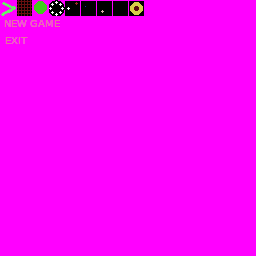
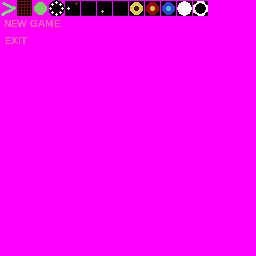
Add more artefacts

Changed region(s): [[0.5625, 0.0, 0.8125, 0.0625], [0.125, 0.0, 0.1875, 0.0625]]

diff --git a/src/Snake/Snake.java b/src/Snake/Snake.java
@@ -10,6 +10,10 @@ import Graphics.Screen;
 import Input.Keyboard;
 import Main.Game;
 import World.Artefakt1;
+import World.Artefakt2;
+import World.Artefakt3;
+import World.Artefakt4;
+import World.Artefakt5;
 import World.Map;
 import World.Tile;
 
@@ -117,6 +121,10 @@ public class Snake {
 			// Go ahead
 			boolean Head = false;
 			boolean addlength = false;
+			boolean addlength2 = false;
+			boolean cutlength = false;
+			boolean cutlength_long = false;
+			boolean addlength_long = false;
 			int posX = 0, posY = 0;
 			int lastX = 0, lastY = 0;
 
@@ -130,18 +138,67 @@ public class Snake {
 					lastX = x.x;
 					lastY = x.y;
 
-					// Check artefact
+					// Check artefact1
 					addlength = false;
 					if (Map.tiles[posX][posY] instanceof Artefakt1) {
 						addlength = true;
 						Map.tiles[posX][posY] = Tile.getTile(6);
 						Map.counterArtefact--;
 						Game.score += 10;
-						this.speed -= 5;
+						this.speed -= 3;
 						if(speed < 50)
 							speed = 50;
 					}
 
+					// Check Artefact2
+					if(Map.tiles[posX][posY] instanceof Artefakt2)
+					{
+						addlength=true;
+						addlength2=true;
+						Map.tiles[posX][posY] = Tile.getTile(6);
+						Map.counterArtefact1--;
+						Game.score += 15;
+						this.speed -= 5;
+						if(speed < 50)
+							speed = 50;
+					}
+					
+					// Check Artefact 3
+					if(Map.tiles[posX][posY] instanceof Artefakt3)
+					{
+						cutlength = true;
+						Map.tiles[posX][posY] = Tile.getTile(6);
+						Map.counterArtefact2--;
+						Game.score += 5;
+						this.speed += 4;
+						if(speed < 50)
+							speed = 50;
+					}
+					
+					// Check Artefact 4
+					if(Map.tiles[posX][posY] instanceof Artefakt4)
+					{
+						addlength_long = true;
+						Map.tiles[posX][posY] = Tile.getTile(6);
+						Map.counterArtefact3--;
+						Game.score += 1000;
+						this.speed -= 25;
+						if(speed < 50)
+							speed = 50;
+					}
+					
+					// Check Artefact 5
+					if(Map.tiles[posX][posY] instanceof Artefakt5)
+					{
+						cutlength_long = true;
+						Map.tiles[posX][posY] = Tile.getTile(6);
+						Map.counterArtefact4--;
+						Game.score += 100;
+						this.speed -= 10;
+						if(speed < 50)
+							speed = 50;
+					}
+					
 					// Check colide band
 					if (posX < 1 || posY < 1 || posX > Game.WordSize - 2 || posY > Game.WordSize - 2) {
 						Manager.ChangeGameState(Manager.GAME_STATE_MENU);
@@ -155,6 +212,8 @@ public class Snake {
 				if ((posX == x.x) && (posY == x.y))
 					Manager.ChangeGameState(Manager.GAME_STATE_MENU);
 			}
+			
+			// Dzialanie Artefakt1 i Artefakt2
 			if (!addlength) {
 				refresh.remove(refresh.size() - 1);
 			} else {
@@ -162,12 +221,50 @@ public class Snake {
 				if (speed < 1)
 					speed = 1;
 			}
+			
+			// Dzialanie Artefakt2
+			if(addlength2)
+			{
+				int lastx = refresh.get(refresh.size()-1).x;
+				int lasty = refresh.get(refresh.size()-1).y;
+				refresh.add(new vector(lastx-1, lasty-1, lastx-2, lasty-2));
+				
+			}
+			
+			// Dzialanie Artefakt3
+			if(cutlength)
+			{
+				if(refresh.size() > 3)
+					refresh.remove(refresh.size() -1);
+			}
+			
+			// Dzialanie Artefakt 4
+			if(cutlength_long)
+			{
+				for(int x=0;x<4;x++)
+					if(refresh.size() > 3)
+						refresh.remove(refresh.size()-1);
+					else
+						break;
+			}
+			
+			// Dzialanie Artefakt 5
+			if(addlength_long)
+			{
+				int lastx = refresh.get(refresh.size()-1).x;
+				int lasty = refresh.get(refresh.size()-1).y;
+				
+				for(int x=1;x<=10;x++)
+					refresh.add(new vector(lastx-x, lasty-x, lastx-1-x, lasty-1-x));
+				
+			}
+			
 			abdomen = refresh;
 			changeDirection = true;
 		}
 		direction();
 		if(Keyboard.getKey(KeyEvent.VK_SPACE))
-		{
+		{	
 			if(MaxSpeed)
 			{
 				Tspeed = speed;

diff --git a/src/World/Map.java b/src/World/Map.java
@@ -11,6 +11,10 @@ public class Map {
 
 	public static Tile[][] tiles;
 	public static int counterArtefact;
+	public static int counterArtefact1;
+	public static int counterArtefact2;
+	public static int counterArtefact3;
+	public static int counterArtefact4;
 
 	public Map(int width, int height) {
 		this.WIDTH = width;
@@ -19,27 +23,31 @@ public class Map {
 		clear(6);
 		addbackground();
 		counterArtefact = 0;
+		counterArtefact1 = 0;
+		counterArtefact2 = 0;
+		counterArtefact3 = 0;
+		counterArtefact4 = 0;
 	}
 
-	public void addbackground()
-	{
+	public void addbackground() {
 		for (int y = 0; y < HEIGHT; y++)
 			for (int x = 0; x < WIDTH; x++)
-				if (!(x == 0 || y == 0 || x == HEIGHT - 1 || y == WIDTH - 1))
-				{
+				if (!(x == 0 || y == 0 || x == HEIGHT - 1 || y == WIDTH - 1)) {
 					Random r = new Random();
 					int los = r.nextInt(100);
 
-					if(los < 10)
+					if (los < 10)
 						tiles[x][y] = Tile.getTile(3);
-					else if(los < 20)
+					else if (los < 20)
 						tiles[x][y] = Tile.getTile(4);
 					else if (los < 30)
 						tiles[x][y] = Tile.getTile(5);
 					else
 						tiles[x][y] = Tile.getTile(6); // Black
 				}
+
 	}
+
 	public void clear(int ID) {
 		for (int y = 0; y < HEIGHT; y++)
 			for (int x = 0; x < WIDTH; x++)
@@ -59,14 +67,61 @@ public class Map {
 	public void update() {
 		Random r = new Random();
 		int los = r.nextInt(100);
+
+		// Artefakt1
 		if (los == 5) {
-			if (counterArtefact < 3) {
+			if (counterArtefact < 10) {
 				int x = r.nextInt(WIDTH - 2) + 1;
 				int y = r.nextInt(HEIGHT - 2) + 1;
 				tiles[x][y] = Tile.getTile(7);
 				counterArtefact++;
 			}
 		}
+
+		// Artefakt2
+
+		if (los == 18) {
+			if (counterArtefact1 < 5) {
+				int x = r.nextInt(WIDTH - 2) + 1;
+				int y = r.nextInt(HEIGHT - 2) + 1;
+				tiles[x][y] = Tile.getTile(8);
+				counterArtefact1++;
+			}
+		}
+
+		// Artefakt3
+
+		if (los == 52) {
+			if (counterArtefact2 < 3) {
+				int x = r.nextInt(WIDTH - 2) + 1;
+				int y = r.nextInt(HEIGHT - 2) + 1;
+				tiles[x][y] = Tile.getTile(9);
+				counterArtefact2++;
+			}
+		}
+
+//		// Artefakt4
+
+		if (los == 80) {
+			if (counterArtefact3 < 2) {
+				int x = r.nextInt(WIDTH - 2) + 1;
+				int y = r.nextInt(HEIGHT - 2) + 1;
+				tiles[x][y] = Tile.getTile(10);
+				counterArtefact3++;
+			}
+		}
+
+//		// Artefakt5
+
+		if (los == 92) {
+			if (counterArtefact4 < 2) {
+				int x = r.nextInt(WIDTH - 2) + 1;
+				int y = r.nextInt(HEIGHT - 2) + 1;
+				tiles[x][y] = Tile.getTile(11);
+				counterArtefact4++;
+			}
+		}
+
 	}
 
 }

diff --git a/src/World/Tile.java b/src/World/Tile.java
@@ -18,6 +18,10 @@ public class Tile {
 		if(id == 5)return new Background3();
 		if(id == 6)return new Background_black();
 		if(id == 7)return new Artefakt1();
+		if(id == 8)return new Artefakt2();
+		if(id == 9)return new Artefakt3();
+		if(id == 10)return new Artefakt4();
+		if(id == 11)return new Artefakt5();
 		return new Head();
 	}
 	
